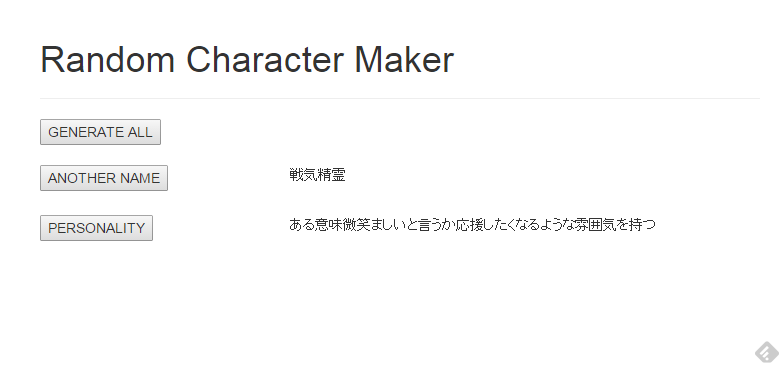
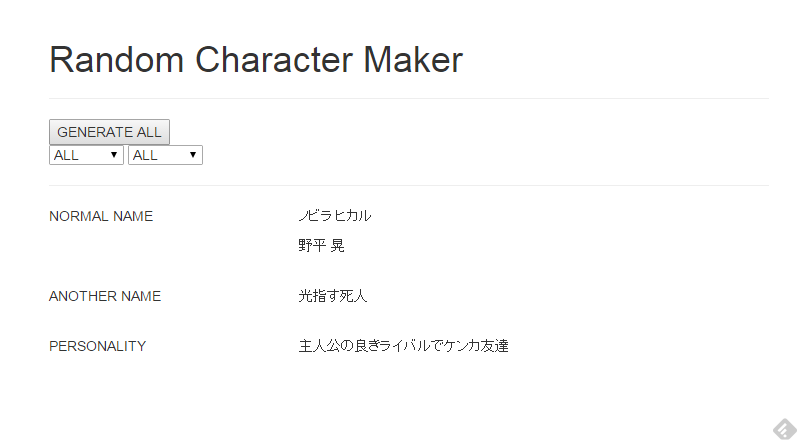
add: feature generate normal name

diff --git a/sources/app/models/MasterNormalNames.php b/sources/app/models/MasterNormalNames.php
@@ -1,0 +1,273 @@
+<?php
+
+class MasterNormalNames extends \Phalcon\Mvc\Model
+{
+
+    /**
+     *
+     * @var integer
+     */
+    public $id;
+
+    /**
+     *
+     * @var string
+     */
+    public $body;
+
+    /**
+     *
+     * @var string
+     */
+    public $body_kana;
+
+    /**
+     *
+     * @var string
+     */
+    public $type;
+
+    /**
+     *
+     * @var string
+     */
+    public $nation;
+
+    /**
+     *
+     * @var string
+     */
+    public $gender;
+
+    /**
+     *
+     * @var string
+     */
+    public $created;
+
+    /**
+     *
+     * @var string
+     */
+    public $modified;
+
+    /**
+     * Returns table name mapped in the model.
+     *
+     * @return string
+     */
+    public function getSource()
+    {
+        return 'master_normal_names';
+    }
+
+    /**
+     * Allows to query a set of records that match the specified conditions
+     *
+     * @param mixed $parameters
+     * @return MasterNormalNames[]
+     */
+    public static function find($parameters = null)
+    {
+        return parent::find($parameters);
+    }
+
+    /**
+     * Allows to query the first record that match the specified conditions
+     *
+     * @param mixed $parameters
+     * @return MasterNormalNames
+     */
+    public static function findFirst($parameters = null)
+    {
+        return parent::findFirst($parameters);
+    }
+
+    /**
+     * @param int $numberOf いくつ生成するか
+     * @param string $whatNation どの国名を対象にするか
+     * @param string $whatGender どの性別を対象にするか
+     * @return array
+     */
+    public function findNormalNames($numberOf = 3, $whatNation = 'all', $whatGender = 'all')
+    {
+        // get last name pool
+        // FIXME: 可読性優先でSQL全部べた書きしてますけど、なんとかならない？
+        $sqlForLastName = '';
+        $bindForLastName = '';
+        $bindTypesForLastName = '';
+        if ($whatNation == 'all' && $whatGender == 'all') {
+            $sqlForLastName = <<< EOM
+SELECT
+  body,
+  body_kana
+FROM MasterNormalNames
+WHERE type = 'last'
+ORDER BY RAND()
+LIMIT :numberOf:
+EOM;
+            $bindForLastName = array(
+                'numberOf' => $numberOf
+            );
+            $bindTypesForLastName = array(
+                'numberOf' => Phalcon\Db\Column::BIND_PARAM_INT
+            );
+        } else if ($whatNation == 'all' && $whatGender != 'all') {
+            $sqlForLastName = <<< EOM
+SELECT
+  body,
+  body_kana
+FROM MasterNormalNames
+WHERE type = 'last'
+ORDER BY RAND()
+LIMIT :numberOf:
+EOM;
+            $bindForLastName = array(
+                'numberOf' => $numberOf
+            );
+            $bindTypesForLastName = array(
+                'numberOf' => Phalcon\Db\Column::BIND_PARAM_INT
+            );
+        } else if ($whatNation != 'all' && $whatGender == 'all') {
+            $sqlForLastName = <<< EOM
+SELECT
+  body,
+  body_kana
+FROM MasterNormalNames
+WHERE type = 'last' AND nation = :whatNation:
+ORDER BY RAND()
+LIMIT :numberOf:
+EOM;
+            $bindForLastName = array(
+                'whatNation' => $whatNation,
+                'numberOf' => $numberOf
+            );
+            $bindTypesForLastName = array(
+                'whatNation' => Phalcon\Db\Column::BIND_PARAM_STR,
+                'numberOf' => Phalcon\Db\Column::BIND_PARAM_INT
+            );
+        } else {
+            $sqlForLastName = <<< EOM
+SELECT
+  body,
+  body_kana
+FROM MasterNormalNames
+WHERE type = 'last' AND nation = :whatNation:
+ORDER BY RAND()
+LIMIT :numberOf:
+EOM;
+            $bindForLastName = array(
+                'whatNation' => $whatNation,
+                'numberOf' => $numberOf
+            );
+            $bindTypesForLastName = array(
+                'whatNation' => Phalcon\Db\Column::BIND_PARAM_STR,
+                'numberOf' => Phalcon\Db\Column::BIND_PARAM_INT
+            );
+        }
+        $lastNameObject = $this->modelsManager->executeQuery($sqlForLastName, $bindForLastName, $bindTypesForLastName);
+        $lastNameRows = array();
+        foreach ($lastNameObject as $row) {
+            $lastNameRows[] = array(
+                'body' => $row->body,
+                'body_kana' => $row->body_kana
+            );
+        }
+        // get first name pool
+        // FIXME: 可読性優先でSQL全部べた書きしてますけど、なんとかならない？
+        $sqlForFirstName = '';
+        $bindForFirstName = '';
+        $bindTypesForFirstName = '';
+        if ($whatNation == 'all' && $whatGender == 'all') {
+            $sqlForFirstName = <<< EOM
+SELECT
+  body,
+  body_kana
+FROM MasterNormalNames
+WHERE type = 'first'
+ORDER BY RAND()
+LIMIT :numberOf:
+EOM;
+            $bindForFirstName = array(
+                'numberOf' => $numberOf
+            );
+            $bindTypesForFirstName = array(
+                'numberOf' => Phalcon\Db\Column::BIND_PARAM_INT
+            );
+        } else if ($whatNation == 'all' && $whatGender != 'all') {
+            $sqlForFirstName = <<< EOM
+SELECT
+  body,
+  body_kana
+FROM MasterNormalNames
+WHERE type = 'first' AND gender = :whatGender:
+ORDER BY RAND()
+LIMIT :numberOf:
+EOM;
+            $bindForFirstName = array(
+                'whatGender' => $whatGender,
+                'numberOf' => $numberOf
+            );
+            $bindTypesForFirstName = array(
+                'whatGender' => Phalcon\Db\Column::BIND_PARAM_STR,
+                'numberOf' => Phalcon\Db\Column::BIND_PARAM_INT
+            );
+        } else if ($whatNation != 'all' && $whatGender == 'all') {
+            $sqlForFirstName = <<< EOM
+SELECT
+  body,
+  body_kana
+FROM MasterNormalNames
+WHERE type = 'first' AND nation = :whatNation:
+ORDER BY RAND()
+LIMIT :numberOf:
+EOM;
+            $bindForFirstName = array(
+                'whatNation' => $whatNation,
+                'numberOf' => $numberOf
+            );
+            $bindTypesForFirstName = array(
+                'whatNation' => Phalcon\Db\Column::BIND_PARAM_STR,
+                'numberOf' => Phalcon\Db\Column::BIND_PARAM_INT
+            );
+        } else {
+            $sqlForFirstName = <<< EOM
+SELECT
+  body,
+  body_kana
+FROM MasterNormalNames
+WHERE type = 'first' AND nation = :whatNation: AND gender = :whatGender:
+ORDER BY RAND()
+LIMIT :numberOf:
+EOM;
+            $bindForFirstName = array(
+                'whatNation' => $whatNation,
+                'whatGender' => $whatGender,
+                'numberOf' => $numberOf
+            );
+            $bindTypesForFirstName = array(
+                'whatNation' => Phalcon\Db\Column::BIND_PARAM_STR,
+                'whatGender' => Phalcon\Db\Column::BIND_PARAM_STR,
+                'numberOf' => Phalcon\Db\Column::BIND_PARAM_INT
+            );
+        }
+        $firstNameObject = $this->modelsManager->executeQuery($sqlForFirstName, $bindForFirstName, $bindTypesForFirstName);
+        $firstNameRows = array();
+        foreach ($firstNameObject as $row) {
+            $firstNameRows[] = array(
+                'body' => $row->body,
+                'body_kana' => $row->body_kana
+            );
+        }
+        // join last name pool and first name pool
+        $joinedRows = array();
+        for ($i = 0; $i < $numberOf; $i++) {
+            $joinedRows[] = array(
+                'body' => $lastNameRows[$i]['body'] . ' ' . $firstNameRows[$i]['body'],
+                'body_kana' => $lastNameRows[$i]['body_kana'] . ' ' . $firstNameRows[$i]['body_kana'],
+            );
+        }
+        return $joinedRows;
+    }
+
+}

diff --git a/sources/app/controllers/IndexController.php b/sources/app/controllers/IndexController.php
@@ -18,13 +18,8 @@ class IndexController extends ControllerBase
                 $callAction = $this->request->getPost("call_action");
                 switch ($callAction) {
                     case 'generate_all':
+                        $this->generateNormalNameAction();
                         $this->generateAnotherNameAction();
-                        $this->generatePersonalityAction();
-                        break;
-                    case 'generate_another_name':
-                        $this->generateAnotherNameAction();
-                        break;
-                    case 'generate_personality':
                         $this->generatePersonalityAction();
                         break;
                     default:
@@ -32,6 +27,14 @@ class IndexController extends ControllerBase
                 }
             }
         }
+    }
+
+    private function generateNormalNameAction()
+    {
+        $model = new MasterNormalNames();
+        $nation = (empty($this->request->getPost("nation")) ? '' : $this->request->getPost("nation"));
+        $gender = (empty($this->request->getPost("gender")) ? '' : $this->request->getPost("gender"));
+        $this->view->setVar('normalNames', $model->findNormalNames(1, $nation, $gender));
     }
 
     private function generateAnotherNameAction()

diff --git a/sources/app/models/MasterAnotherNames.php b/sources/app/models/MasterAnotherNames.php
@@ -72,7 +72,7 @@ class MasterAnotherNames extends \Phalcon\Mvc\Model
     }
 
     /**
-     * @param int $numberOf 名前をいくつ生成するか
+     * @param int $numberOf いくつ生成するか
      * @return array
      */
     public function findAnotherNames($numberOf = 3)
